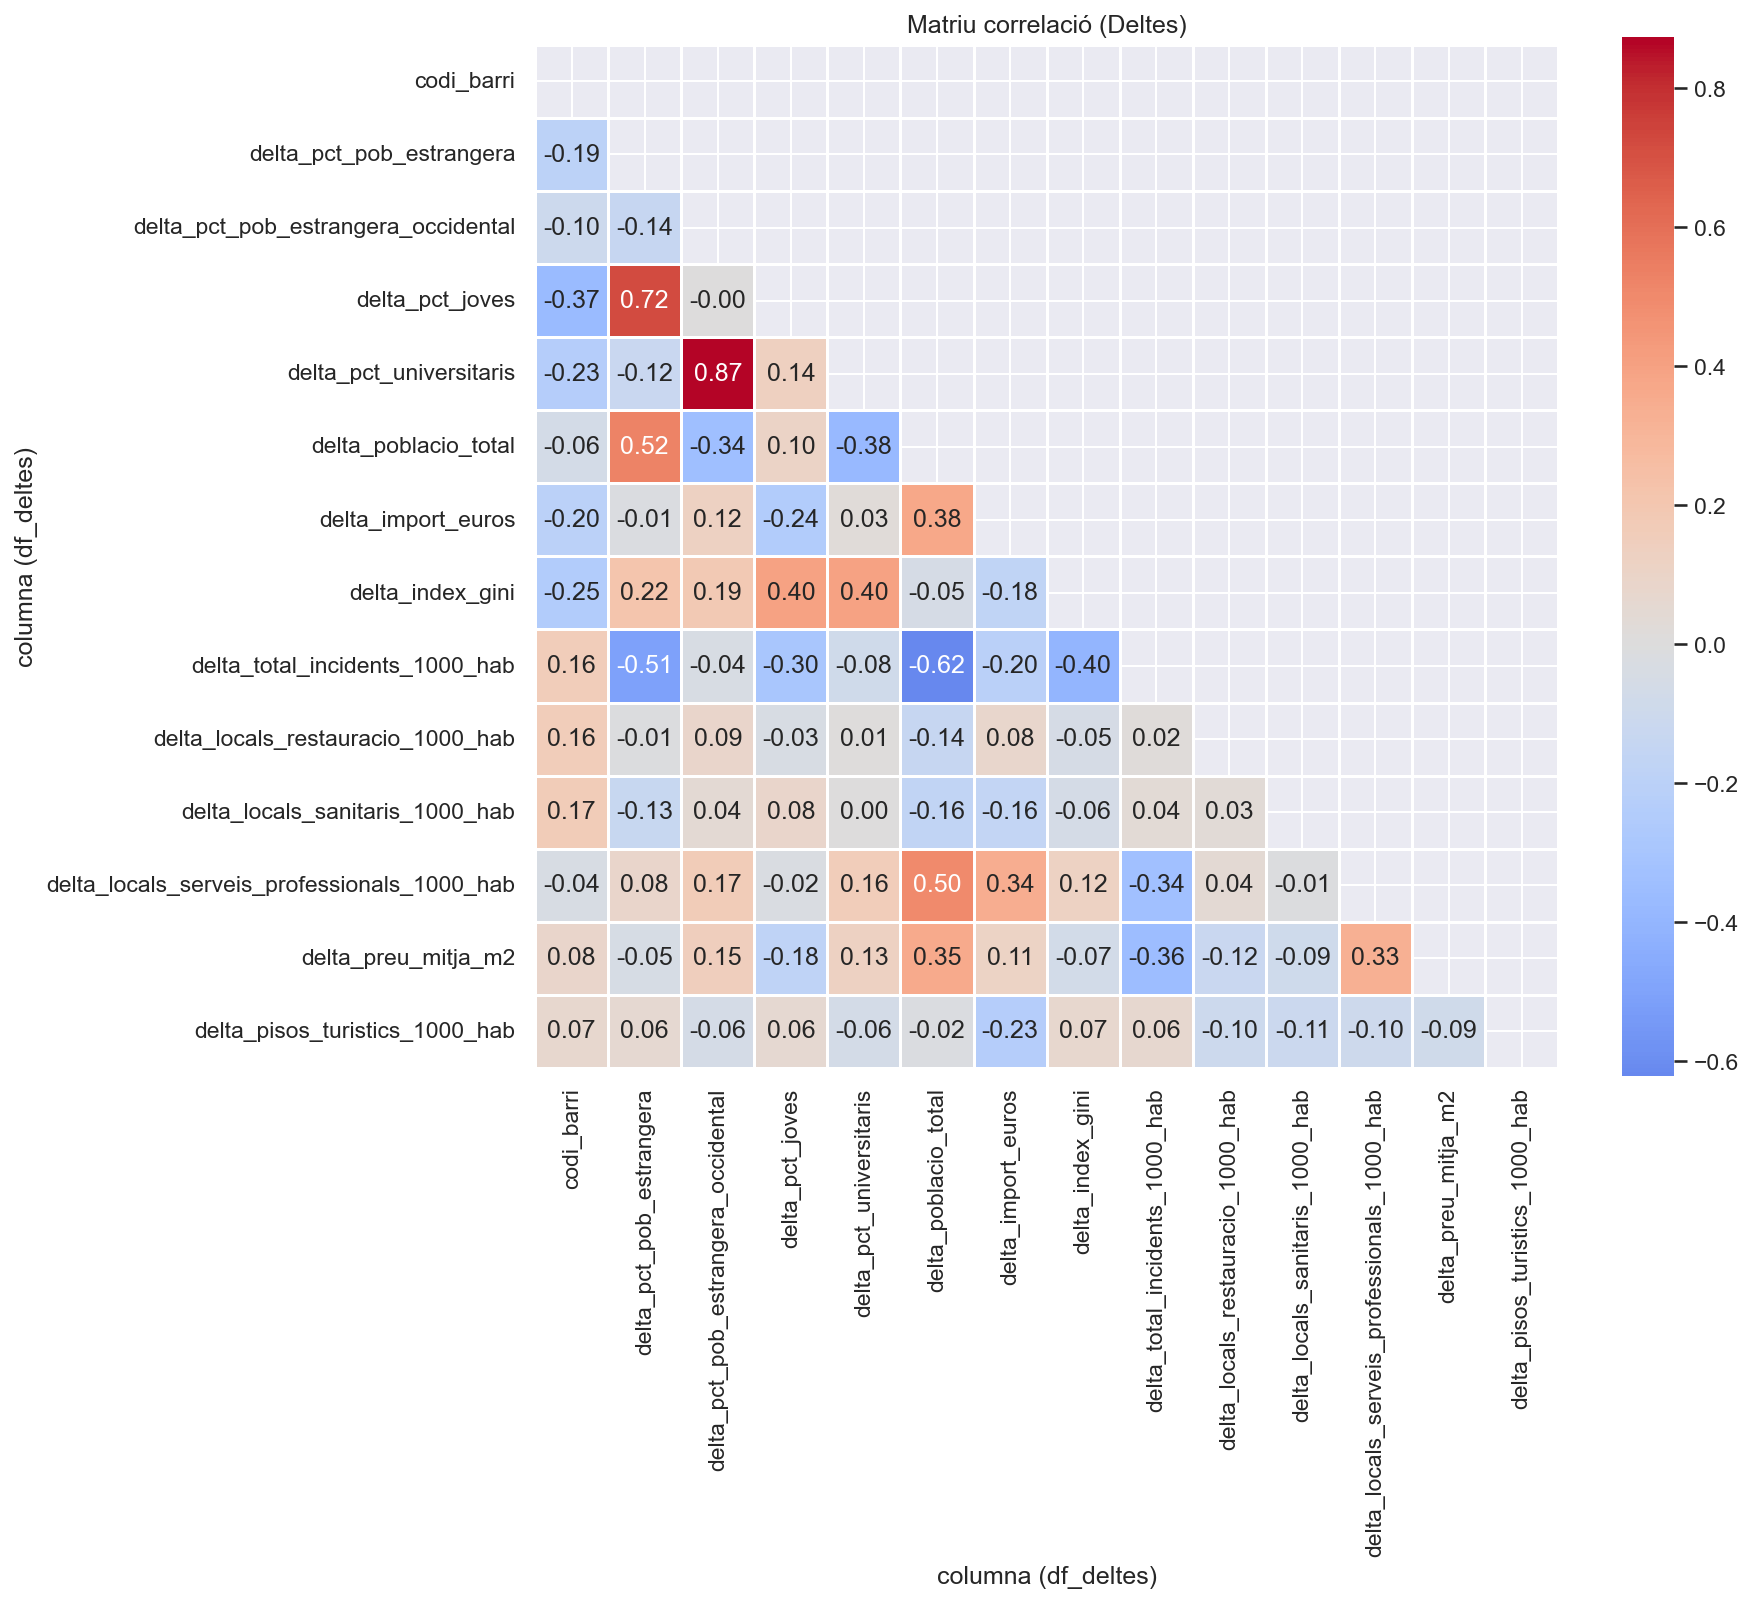
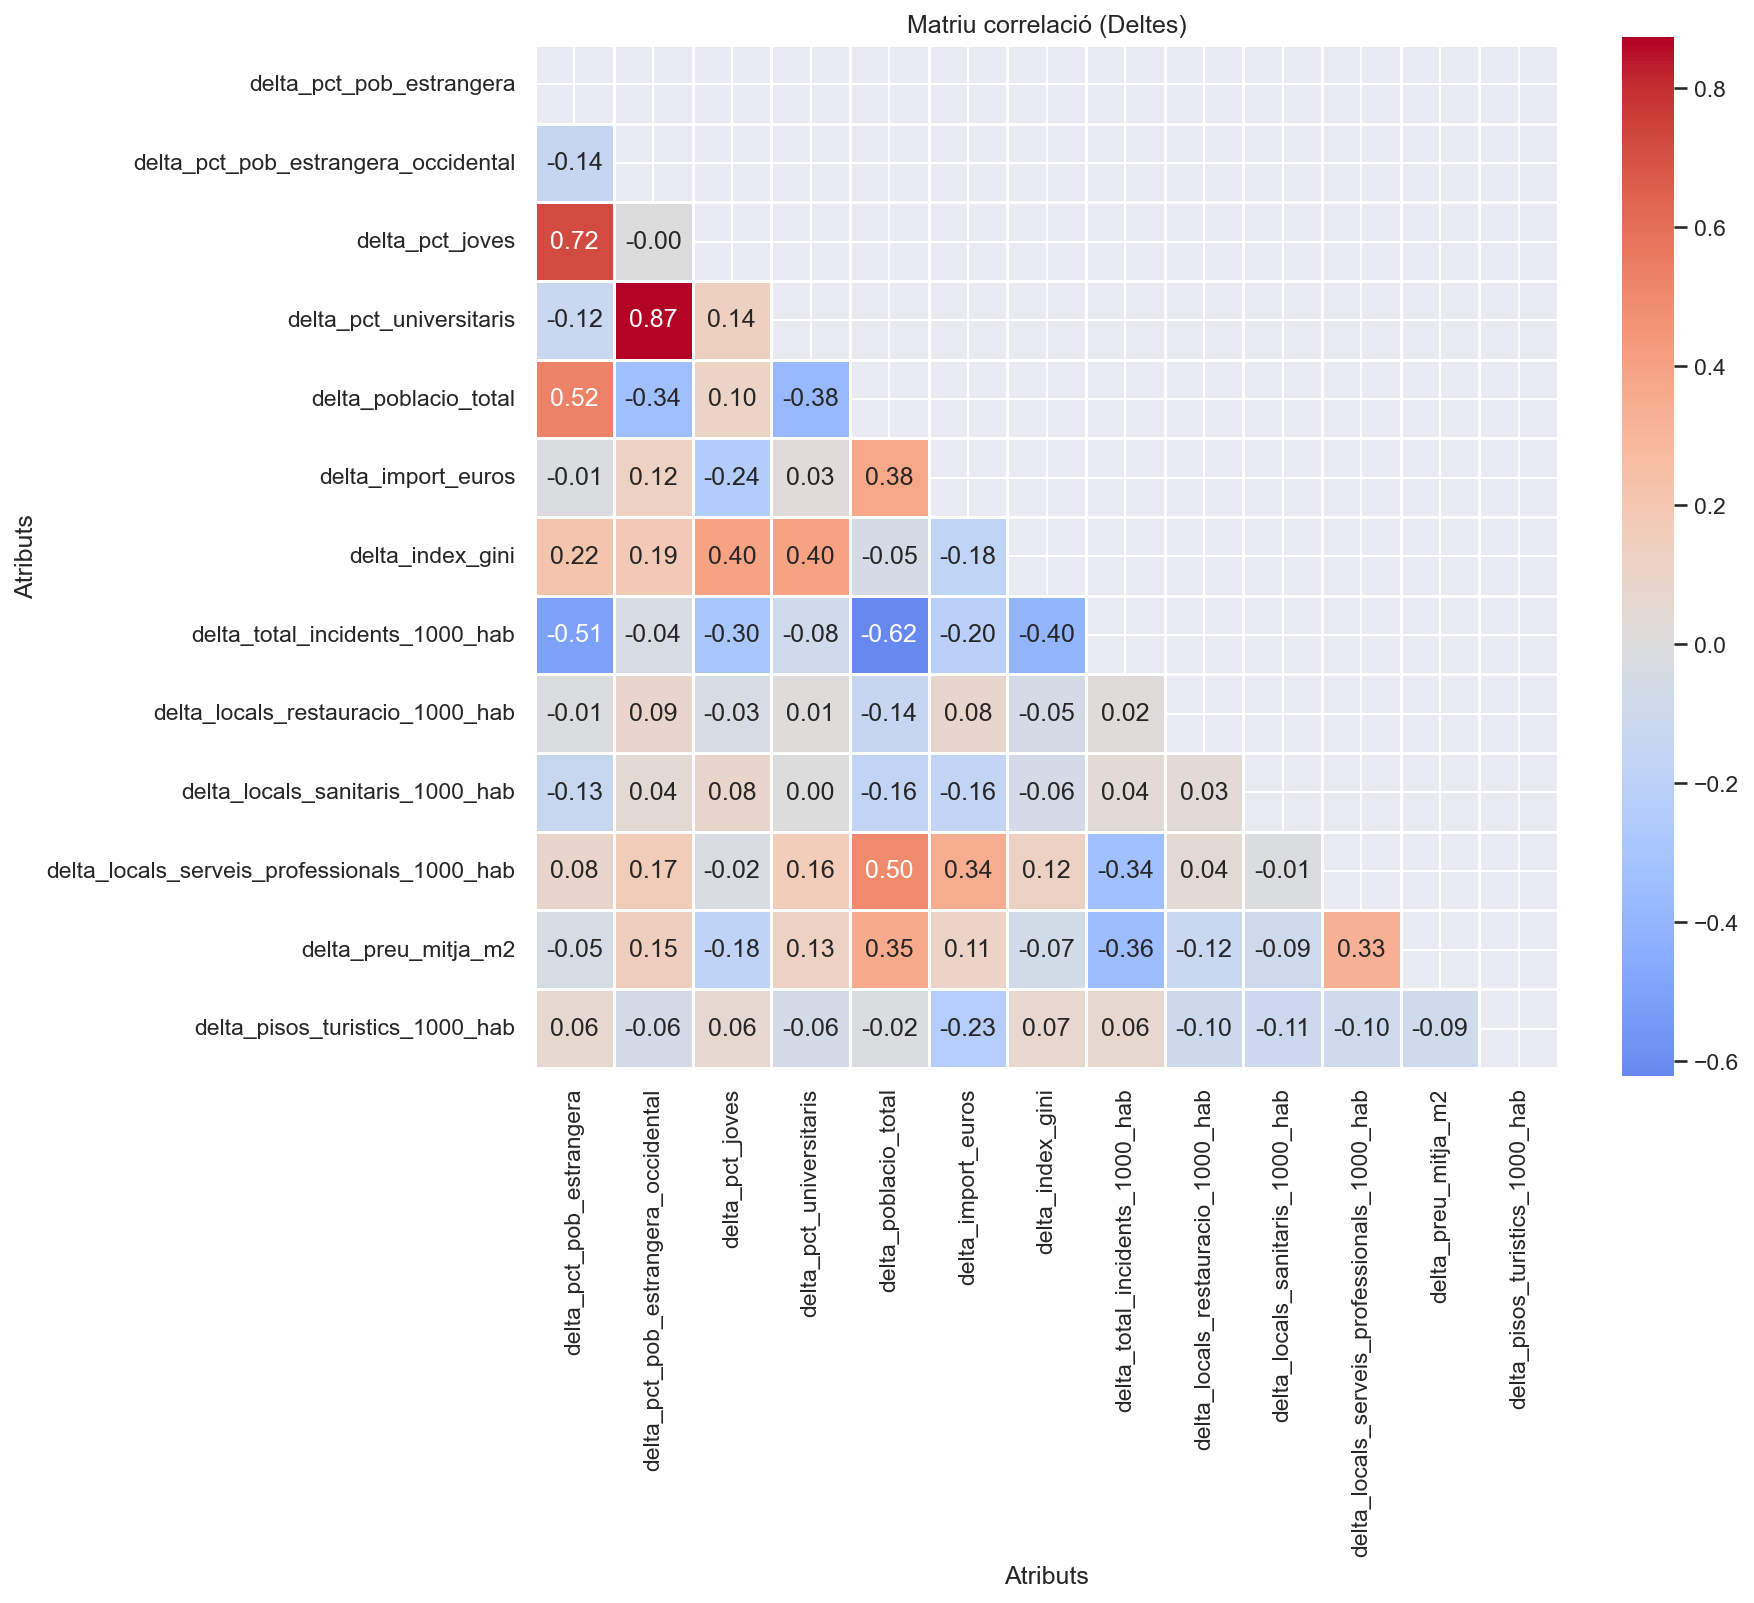
update correlacions analisis

diff --git a/README.md b/README.md
@@ -50,6 +50,7 @@ Es realitza una exploració de les dades focalitzada en les seves estructures i 
 | df_deltes        | revisar |    Hi ha NaN i inf en variables calculades com a canvis percentuals sobre bases inicials nul.les o inexistents.     |
 | Escala de variables   | revisar  |     Renda, gini, preu i taxes per 1000 hab treballen en escales diferents. Abans del clustering caldra escalar.    |
 | Outliers | revisar |    Algunes variables urbanes presenten cues llargues i outliers.Valorar si aplicar transofrmació logaritmica.     |
+| Correlacions | revisar |    Algunes variables presenten una forta correlació entre elles, com és el cas de import_euros i pct_universitaris (0.88), pct_joves i pct_pob_estrangera (0.9), delta_pct_universitaris i delta_pct_pob_estrangera_occidental (0.87).     |
 
 Després de detectar els registres erronis en una primera execució del notebook [eda.ipynb](notebooks/eda.ipynb), s' han aplicat els canvis necessaris per tal de subsanar les dades. En aquest cas: 
 - Creació de dues funcions per calcular els deltes de manera robusta i tenint en compte valors nuls o 0 que causin nuls o infinits.
@@ -63,4 +64,5 @@ Un cop els canvis s' han aplicat, s' ha re-executat el notebook [eda.ipynb](note
 | df_deltes        | revisat |    Amb una funció més robusta s'han calculat els deltes i ah permès tractar aquells registres amb denominador 0 o nul.     |
 | Escala de variables   | revisat  |     L' estandarització de les dades es durà a terme en el notbook de modelatge.    |
 | Outliers | revisat |    La transformació logarítmica (si escau) es valorarà en la part de modelatge.     |
+| Correlacions | revisar |   Utilitzarem PCA per reduir dimensionalitat.    |
 